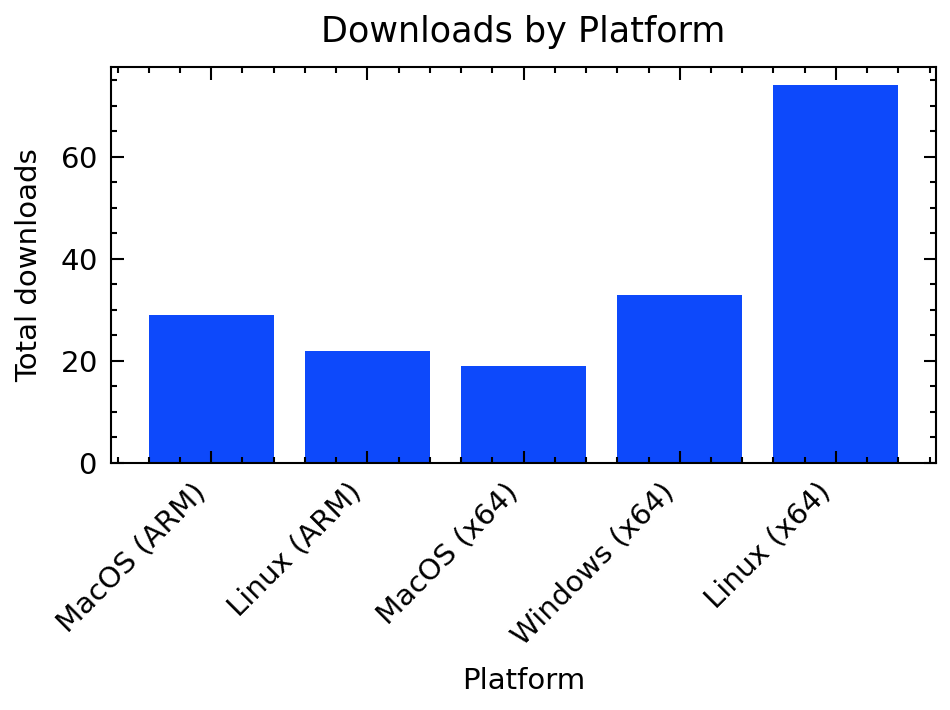
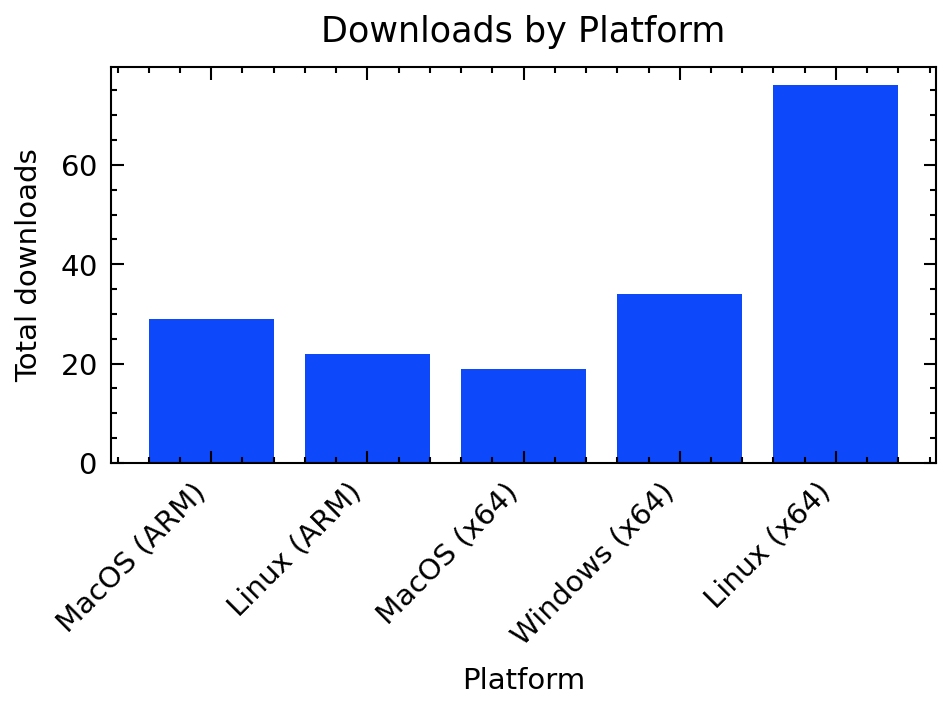
Updated Metrics data

diff --git a/README.md b/README.md
@@ -4,7 +4,7 @@
 SciWIn-Client helps user creating **Computational Workflows** in CWL. Detailed Information about SciWIn-Client can be found in the [GitHub Repository](https://github.com/fairagro/m4.4_sciwin_client). The Metrics shown below have been calculated using the GitHub API. Presentation is done via a CWL Workflow.
 
 ## Downloads by Version
-SciWIn-Client currently has about 177 overall downloads across all versions and operating systems. The lastest version v1.0.0 currently has 16 downloads.
+SciWIn-Client currently has about 180 overall downloads across all versions and operating systems. The lastest version v1.0.0 currently has 17 downloads.
 
 
 ![downloads by version](release.png)
@@ -12,13 +12,13 @@ SciWIn-Client currently has about 177 overall downloads across all versions and 
 
 | Version | Downloads |
 |---------|-----------|
-| v1.0.0 | 16|
+| v1.0.0 | 17|
 | v0.8.0 | 34|
 | v0.7.0 | 15|
-| v0.6.1 | 10|
+| v0.6.1 | 11|
 | v0.6.0 | 4|
 | v0.5.2 | 13|
-| v0.5.1 | 6|
+| v0.5.1 | 7|
 | v0.5.0 | 6|
 | v0.4.0 | 8|
 | v0.3.0 | 18|
@@ -27,7 +27,7 @@ SciWIn-Client currently has about 177 overall downloads across all versions and 
 
 
 ## Downloads by Operating System
-SciWIn-Client is used on all major operating systems. There are 96 downloads of the linux executable, 33 downloads of the Windows executable and 48 downloads of the Mac OS executable.
+SciWIn-Client is used on all major operating systems. There are 98 downloads of the linux executable, 34 downloads of the Windows executable and 48 downloads of the Mac OS executable.
 
 
 ![downloads by platform](platform.png)
@@ -38,8 +38,8 @@ SciWIn-Client is used on all major operating systems. There are 96 downloads of 
 | MacOS (ARM) | 29|
 | Linux (ARM) | 22|
 | MacOS (x64) | 19|
-| Windows (x64) | 33|
-| Linux (x64) | 74|
+| Windows (x64) | 34|
+| Linux (x64) | 76|
 
 
 ## Creating this Workflow
